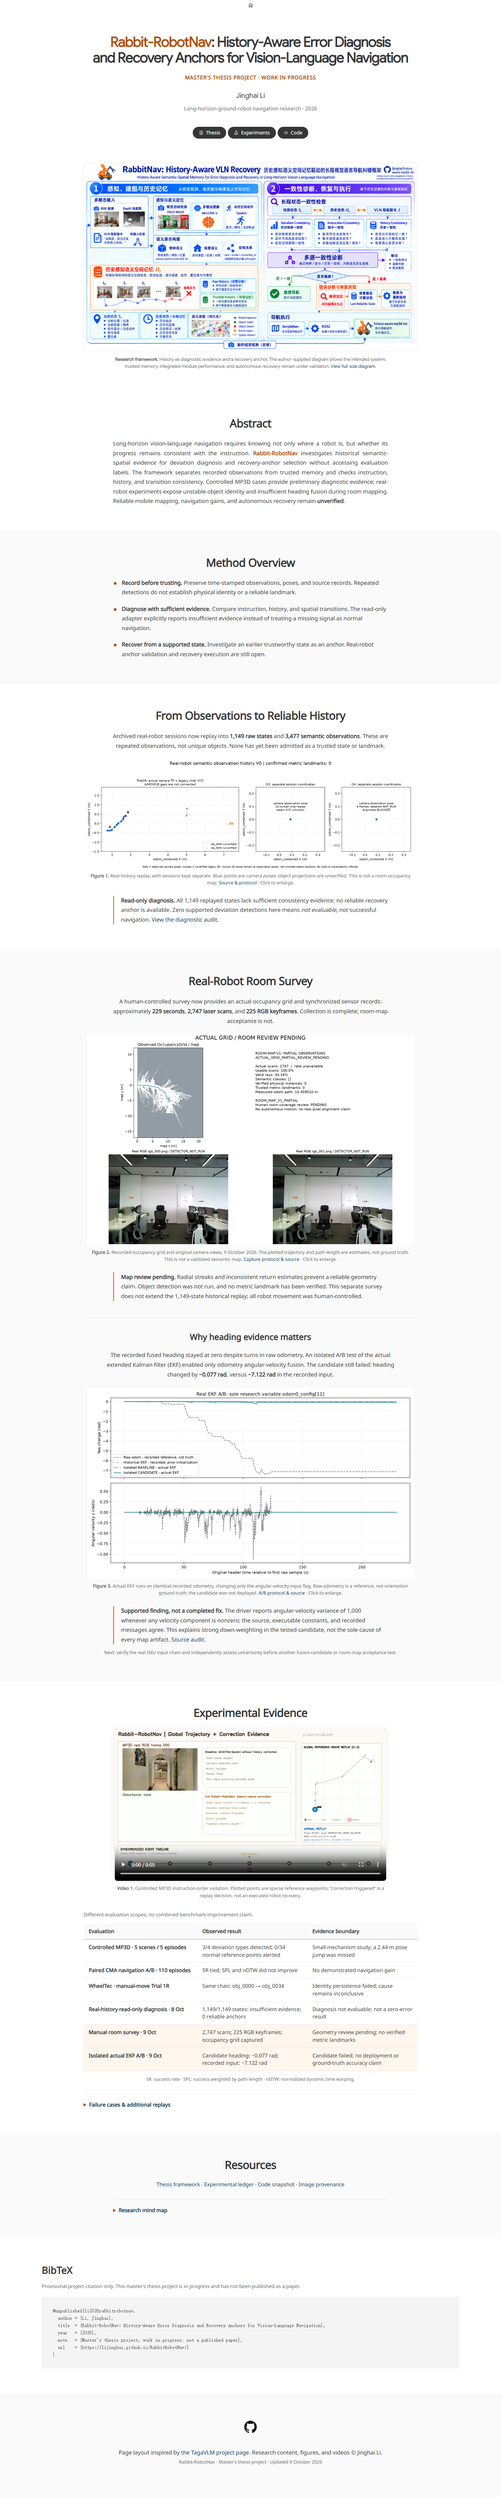
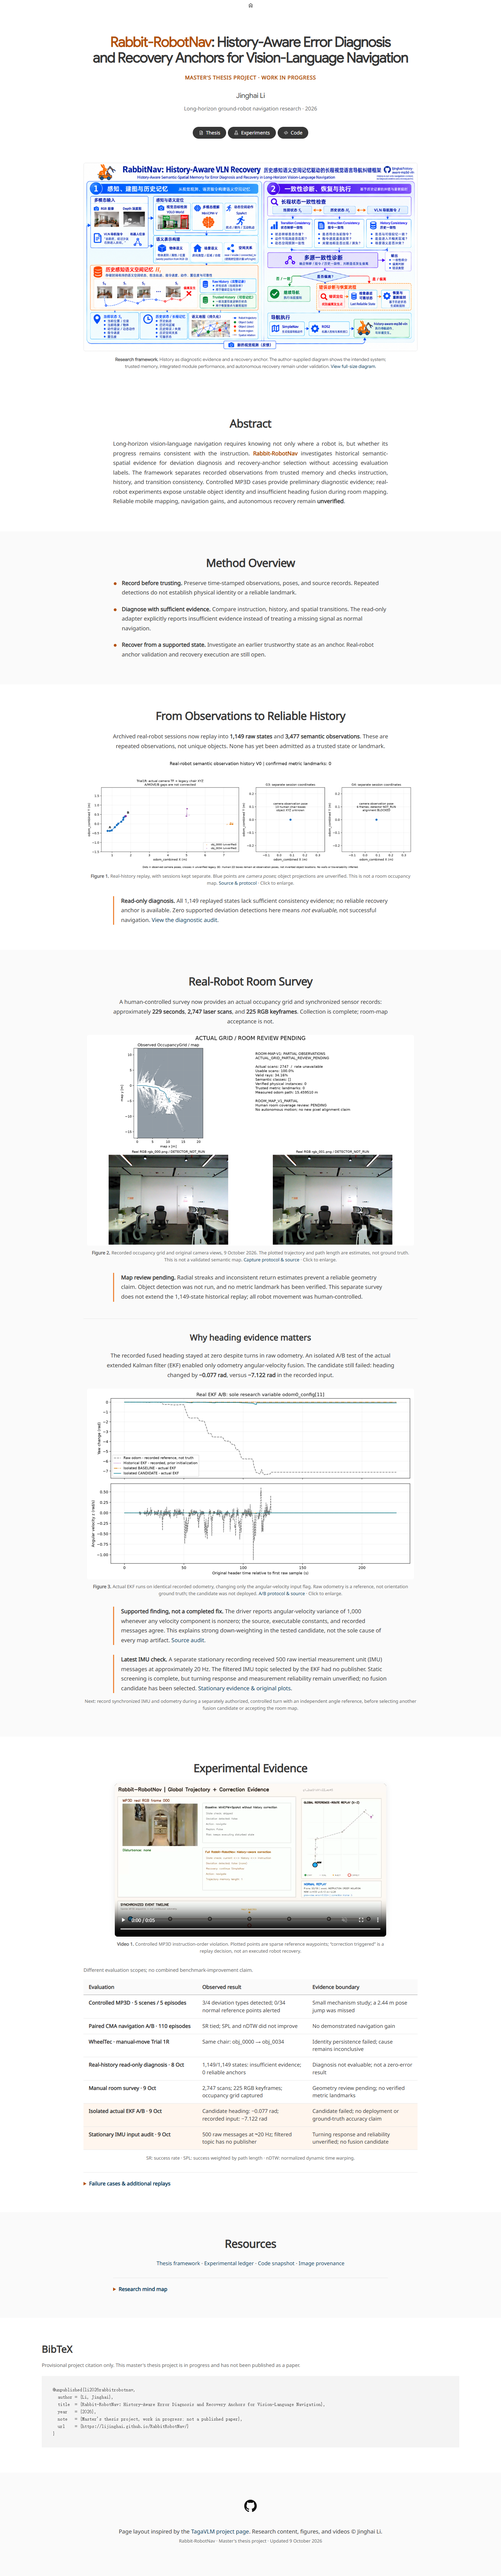
同步已完成的真实惯性输入静止取证并保留转向待验证边界
交付收尾时真机任务完成新的静止惯性输入取证，因此核对最新源报告、结构化统计、转向证据文件和远端提交后，将论文页研究快照推进到该已完成版本。正文仅补充五百条原始惯性消息、滤波话题无发布者及转向可靠性仍未验证的结论，增加一行结果并链接真实原图，不额外堆叠大图。明确下一实验需要独立角度参照和另行现场授权，未选择融合候选，也未操作机器人。同步修订来源说明、可编辑思维图及其渲染结果，重新生成根说明所引用的真实浏览器截图。桌面及两档手机宽度检查通过，七张图片、视频实际播放、两个折叠区、字体及十七项相对资源正常，未发现整页溢出或浏览器错误；结构和差异空白检查通过。未修改个人首页、其他项目或既有未跟踪文件。

Changed region(s): [[0.1875, 0.0, 0.8438, 0.8749], [0.0938, 0.9061, 0.25, 0.9374], [0.4688, 0.9686, 0.5312, 0.9999]]

diff --git a/RabbitRobotNav/index.html b/RabbitRobotNav/index.html
@@ -71,7 +71,8 @@
           <figcaption><strong>Figure 3.</strong> Actual EKF runs on identical recorded odometry, changing only the angular-velocity input flag. Raw odometry is a reference, not orientation ground truth; the candidate was not deployed. <a href="https://github.com/lijinghai/history-aware-mp3d-vln/tree/18957ee8ec62470ac2d57dbe72c6c7ab0d437dc9/docs/evidence/chassis/wheeltec-mecanum/ekf-isolated-heading-ab-v1-2026-10-09">A/B protocol &amp; source</a> · Click to enlarge.</figcaption>
         </figure>
         <p class="evidence-note"><strong>Supported finding, not a completed fix.</strong> The driver reports angular-velocity variance of 1,000 whenever any velocity component is nonzero; the source, executable constants, and recorded messages agree. This explains strong down-weighting in the tested candidate, not the sole cause of every map artifact. <a href="https://github.com/lijinghai/history-aware-mp3d-vln/tree/18957ee8ec62470ac2d57dbe72c6c7ab0d437dc9/docs/evidence/chassis/wheeltec-mecanum/wheeltec-angular-covariance-audit-2026-10-09">Source audit</a>.</p>
-        <p class="table-note">Next: verify the real IMU input chain and independently assess uncertainty before another fusion candidate or room-map acceptance test.</p>
+        <p class="evidence-note"><strong>Latest IMU check.</strong> A separate stationary recording received 500 raw inertial measurement unit (IMU) messages at approximately 20 Hz. The filtered IMU topic selected by the EKF had no publisher. Static screening is complete, but turning response and measurement reliability remain unverified; no fusion candidate has been selected. <a href="https://github.com/lijinghai/history-aware-mp3d-vln/tree/96d146e0d9822cdd71e601b2b376057cedd8f147/docs/evidence/chassis/wheeltec-mecanum/wheeltec-real-imu-chain-v1-2026-10-09">Stationary evidence &amp; original plots</a>.</p>
+        <p class="table-note">Next: record synchronized IMU and odometry during a separately authorized, controlled turn with an independent angle reference, before selecting another fusion candidate or accepting the room map.</p>
       </div>
     </div></section>
     <section id="results" class="section section-alt"><div class="container">
@@ -90,6 +91,7 @@
           <tr><td>Real-history read-only diagnosis · 8 Oct</td><td>1,149/1,149 states: insufficient evidence; 0 reliable anchors</td><td>Diagnosis not evaluable; not a zero-error result</td></tr>
           <tr><td>Manual room survey · 9 Oct</td><td>2,747 scans; 225 RGB keyframes; occupancy grid captured</td><td>Geometry review pending; no verified metric landmarks</td></tr>
           <tr><td>Isolated actual EKF A/B · 9 Oct</td><td>Candidate heading: −0.077 rad; recorded input: −7.122 rad</td><td>Candidate failed; no deployment or ground-truth accuracy claim</td></tr>
+          <tr><td>Stationary IMU input audit · 9 Oct</td><td>500 raw messages at ≈20 Hz; filtered topic has no publisher</td><td>Turning response and reliability unverified; no fusion candidate</td></tr>
         </tbody>
       </table></div>
       <p class="table-note">SR: success rate · SPL: success weighted by path length · nDTW: normalized dynamic time warping.</p>
@@ -106,7 +108,7 @@
     </div></section>
     <section id="resources" class="section"><div class="container prose">
       <h2>Resources</h2>
-      <p class="resource-links"><a href="https://fcn2t7zlog3v.feishu.cn/wiki/OuK8w5wBGiOkwhkkAQxcRO1Un5e" target="_blank" rel="noopener noreferrer">Thesis framework</a> · <a href="https://fcn2t7zlog3v.feishu.cn/wiki/QkqMw3ElIi5VzUkA0FqcQfuEnHg" target="_blank" rel="noopener noreferrer">Experimental ledger</a> · <a href="https://github.com/lijinghai/history-aware-mp3d-vln/tree/18957ee8ec62470ac2d57dbe72c6c7ab0d437dc9" target="_blank" rel="noopener noreferrer">Code snapshot</a> · <a href="evidence-2026-10-09.md">Image provenance</a></p>
+      <p class="resource-links"><a href="https://fcn2t7zlog3v.feishu.cn/wiki/OuK8w5wBGiOkwhkkAQxcRO1Un5e" target="_blank" rel="noopener noreferrer">Thesis framework</a> · <a href="https://fcn2t7zlog3v.feishu.cn/wiki/QkqMw3ElIi5VzUkA0FqcQfuEnHg" target="_blank" rel="noopener noreferrer">Experimental ledger</a> · <a href="https://github.com/lijinghai/history-aware-mp3d-vln/tree/96d146e0d9822cdd71e601b2b376057cedd8f147" target="_blank" rel="noopener noreferrer">Code snapshot</a> · <a href="evidence-2026-10-09.md">Image provenance</a></p>
       <details class="supplement">
         <summary>Research mind map</summary>
         <p>The research question, evidence boundaries, and next experiment, updated 9 October 2026. This is a research outline, not an experimental result.</p>

diff --git a/RabbitRobotNav/evidence-2026-10-09.md b/RabbitRobotNav/evidence-2026-10-09.md
@@ -4,7 +4,7 @@ Updated 9 October 2026. This is a presentation update, not a new robot experimen
 
 ## Frozen research source
 
-Repository: [history-aware-mp3d-vln / real-robot-integration](https://github.com/lijinghai/history-aware-mp3d-vln/tree/18957ee8ec62470ac2d57dbe72c6c7ab0d437dc9), commit `18957ee8ec62470ac2d57dbe72c6c7ab0d437dc9`. This snapshot includes the completed survey, geometry audit, actual isolated EKF A/B, and driver covariance audit. Ongoing IMU-chain work observed during preparation is not promoted to a completed result here. The research worktree, robot configuration, and running experiments were not modified.
+Repository: [history-aware-mp3d-vln / real-robot-integration](https://github.com/lijinghai/history-aware-mp3d-vln/tree/96d146e0d9822cdd71e601b2b376057cedd8f147), commit `96d146e0d9822cdd71e601b2b376057cedd8f147`. The initial page update used its parent `18957ee8ec62470ac2d57dbe72c6c7ab0d437dc9` for the completed survey, geometry audit, actual isolated EKF A/B, and driver covariance audit. The IMU-chain task completed during website delivery; its committed stationary findings were then checked against the source report and remote SHA and added briefly. No ongoing or unverified turning work is reported as complete. The research worktree, robot configuration, and running experiments were not modified.
 
 Evidence directories below are relative to `docs/evidence/chassis/wheeltec-mecanum/` in that pinned snapshot.
 
@@ -33,6 +33,10 @@ The geometry audit found that fused yaw and angular velocity remained zero while
 The subsequent A/B used the actual ROS 2 `robot_localization` EKF in network-isolated runs with the same 4,580 recorded odometry messages. The only research variable was `odom0_config[11]`, enabling angular-z velocity fusion. Candidate yaw changed by −0.077352249 rad, compared with −7.121530533 rad in recorded raw odometry and zero in the isolated baseline. Rounded values on the page are −0.077 and −7.122 rad. The status is `EKF_ISOLATED_AB_CANDIDATE_FAILED`, not “heading fixed.” These fresh-start runs are not a full recreation of historical filter initialization; the survey bag lacks synchronized IMU data. Raw odometry is not orientation ground truth. No candidate was deployed to the robot. [A/B protocol](https://github.com/lijinghai/history-aware-mp3d-vln/tree/18957ee8ec62470ac2d57dbe72c6c7ab0d437dc9/docs/evidence/chassis/wheeltec-mecanum/ekf-isolated-heading-ab-v1-2026-10-09).
 
 The read-only covariance audit matched the driver source, executable constants, and all 4,580 recorded messages: when any of the three velocity components is nonzero, `twist.covariance[35]` is 1,000 (rad/s)²; when all are exactly zero it is 1e−9. This supports strong down-weighting of angular velocity in the tested candidate, not a calibrated replacement value or a validated fix. Pose-yaw variance and angular-velocity variance have different units and are not interchangeable. The source snapshot was inspected at `Publish_Odom` and the four covariance arrays. [Covariance audit and source](https://github.com/lijinghai/history-aware-mp3d-vln/tree/18957ee8ec62470ac2d57dbe72c6c7ab0d437dc9/docs/evidence/chassis/wheeltec-mecanum/wheeltec-angular-covariance-audit-2026-10-09).
+
+### Stationary IMU audit: messages available, turning unverified
+
+The separate stationary audit at `96d146e` recorded 500 raw IMU messages at approximately 20 Hz. The configured EKF input `/imu/data_filtered` had no publisher. `IMU_CHAIN_EVIDENCE_PARTIAL` means messages were received and static descriptive screening was completed, not a passed sensor calibration: turning response and independent measurement reliability remain unverified, and the next fusion candidate is `NONE`. The original quaternion norm was approximately 0.998313; driver covariance constants are not calibrated precision. This stationary session must not be combined with the earlier room-survey turns, which lack synchronized IMU. The next controlled-turn experiment requires separate field authorization and an independent angle reference. To keep the page concise, its original plots remain linked in the [source report](https://github.com/lijinghai/history-aware-mp3d-vln/tree/96d146e0d9822cdd71e601b2b376057cedd8f147/docs/evidence/chassis/wheeltec-mecanum/wheeltec-real-imu-chain-v1-2026-10-09) rather than adding another large image.
 
 ## Preserved evidence boundaries
 

diff --git a/README.md b/README.md
@@ -82,7 +82,7 @@ flowchart LR
 
 ### 2026-10-09 - Rabbit-RobotNav 房间巡检与朝向审计证据更新
 
-仅更新 `/RabbitRobotNav/` 论文项目页及本次交付记录，保留现有橙色／深蓝英文论文排版、字体、视频与补充材料结构；个人首页、其他项目和原有未跟踪 `work/` 均未改动。依据研究任务“语义地图构建（2）”已完成的真机分支快照 `18957ee8ec62470ac2d57dbe72c6c7ab0d437dc9`，将旧的“等待房间采集”替换为真实采集结果与后续朝向审计，不把正在进行的 IMU 工作提前写成成果。
+仅更新 `/RabbitRobotNav/` 论文项目页及本次交付记录，保留现有橙色／深蓝英文论文排版、字体、视频与补充材料结构；个人首页、其他项目和原有未跟踪 `work/` 均未改动。依据研究任务“语义地图构建（2）”已完成的真机分支快照 `18957ee8ec62470ac2d57dbe72c6c7ab0d437dc9`，将旧的“等待房间采集”替换为真实采集结果与后续朝向审计。交付期间 IMU 静止取证完成并提交为 `96d146e0d9822cdd71e601b2b376057cedd8f147`，核对源报告、任务完成状态与远端 SHA 后另行补充其有限结论。
 
 - **三张重点图：** 用户提供的完整研究框架图替换旧主图；新增真实房间占据栅格／原始 RGB 总览和实际隔离 EKF 朝向对比图。三张图片均与来源逐字节一致，SHA-256、尺寸及固定提交来源记录于[图片来源与论断边界](RabbitRobotNav/evidence-2026-10-09.md)。主图及实验图均可点击查看原尺寸；框架图保留原始配色，明确属于研究设计，不代表所有模块已集成验收。
 - **更新后的结论：** 人工控制的房间采集约 229 秒，获得 2,747 条激光扫描、225 张 RGB 关键帧和实际栅格；条纹、回到起点估计不一致等问题仍待几何验收。目标检测未运行，可信度量地标为 0。实际 EKF 单变量候选的朝向变化仅 −0.077 rad，记录输入为 −7.122 rad，候选失败且未部署；原始里程计不是方向真值。驱动源码、可执行常量及记录消息支持运动时角速度方差为 1,000 的低权重机制，但未确认所有地图伪影的唯一原因。
@@ -90,6 +90,7 @@ flowchart LR
 - **关键文件：** `RabbitRobotNav/index.html`、`style.css`、`research-mindmap.mmd`、`evidence-2026-10-09.md` 和四张新图像资产（包含思维图 SVG）。页面 CSS 引用增加本次版本参数，避免沿用旧缓存的主图尺寸。研究仓库的原始证据、机器人配置与实验脚本未修改。
 - **本地真实验证：** Chrome 在 1440×900、390×844、320×844 下页面宽度与视口一致，无整页横向溢出；手机结果表仅在自身容器内滚动。各视口 7 张图片均解码，2 个补充区均通过关闭→展开→关闭检查；17 个相对资源 HTTP 200。5.6 秒视频实际播放推进，解码宽度 1920px；Google Sans 与 Noto Sans 均完成加载，正文及页脚为 Noto Sans，浏览器控制台／页面错误为 0。HTML 必填属性、标签闭合顺序及重复 ID 检查通过，`git diff --check` 通过。[浏览器检查 JSON](docs/images/updates/2026-10-09-rabbitrobotnav-room-survey/browser-check.json)。
 - **未验证项：** 本轮只更新网站，没有重跑研究实验或操作机器人。可信地图、独立不确定度标定、真实 IMU 融合以及自主恢复仍待研究验收；网页运行通过不等于研究系统验收通过。
+- **收尾同步：** 最新静止采样收到 500 条、约 20 Hz 的 raw IMU，EKF 选择的 filtered 输入无发布者；静止筛查完成不等于转向可靠性通过，融合候选仍为 NONE。正文只增加一段结论、一行结果和原图源链接，不再堆叠大图；同步更新研究快照、来源说明及 Axton 思维图。下一步改为另行授权的同步转向和独立角度参照，未执行该实验。重新生成本节所链接的浏览器截图和检查记录。
 
 ![真实浏览器截图：房间采集与朝向融合失败证据](docs/images/updates/2026-10-09-rabbitrobotnav-room-survey/room-survey.png)
 
